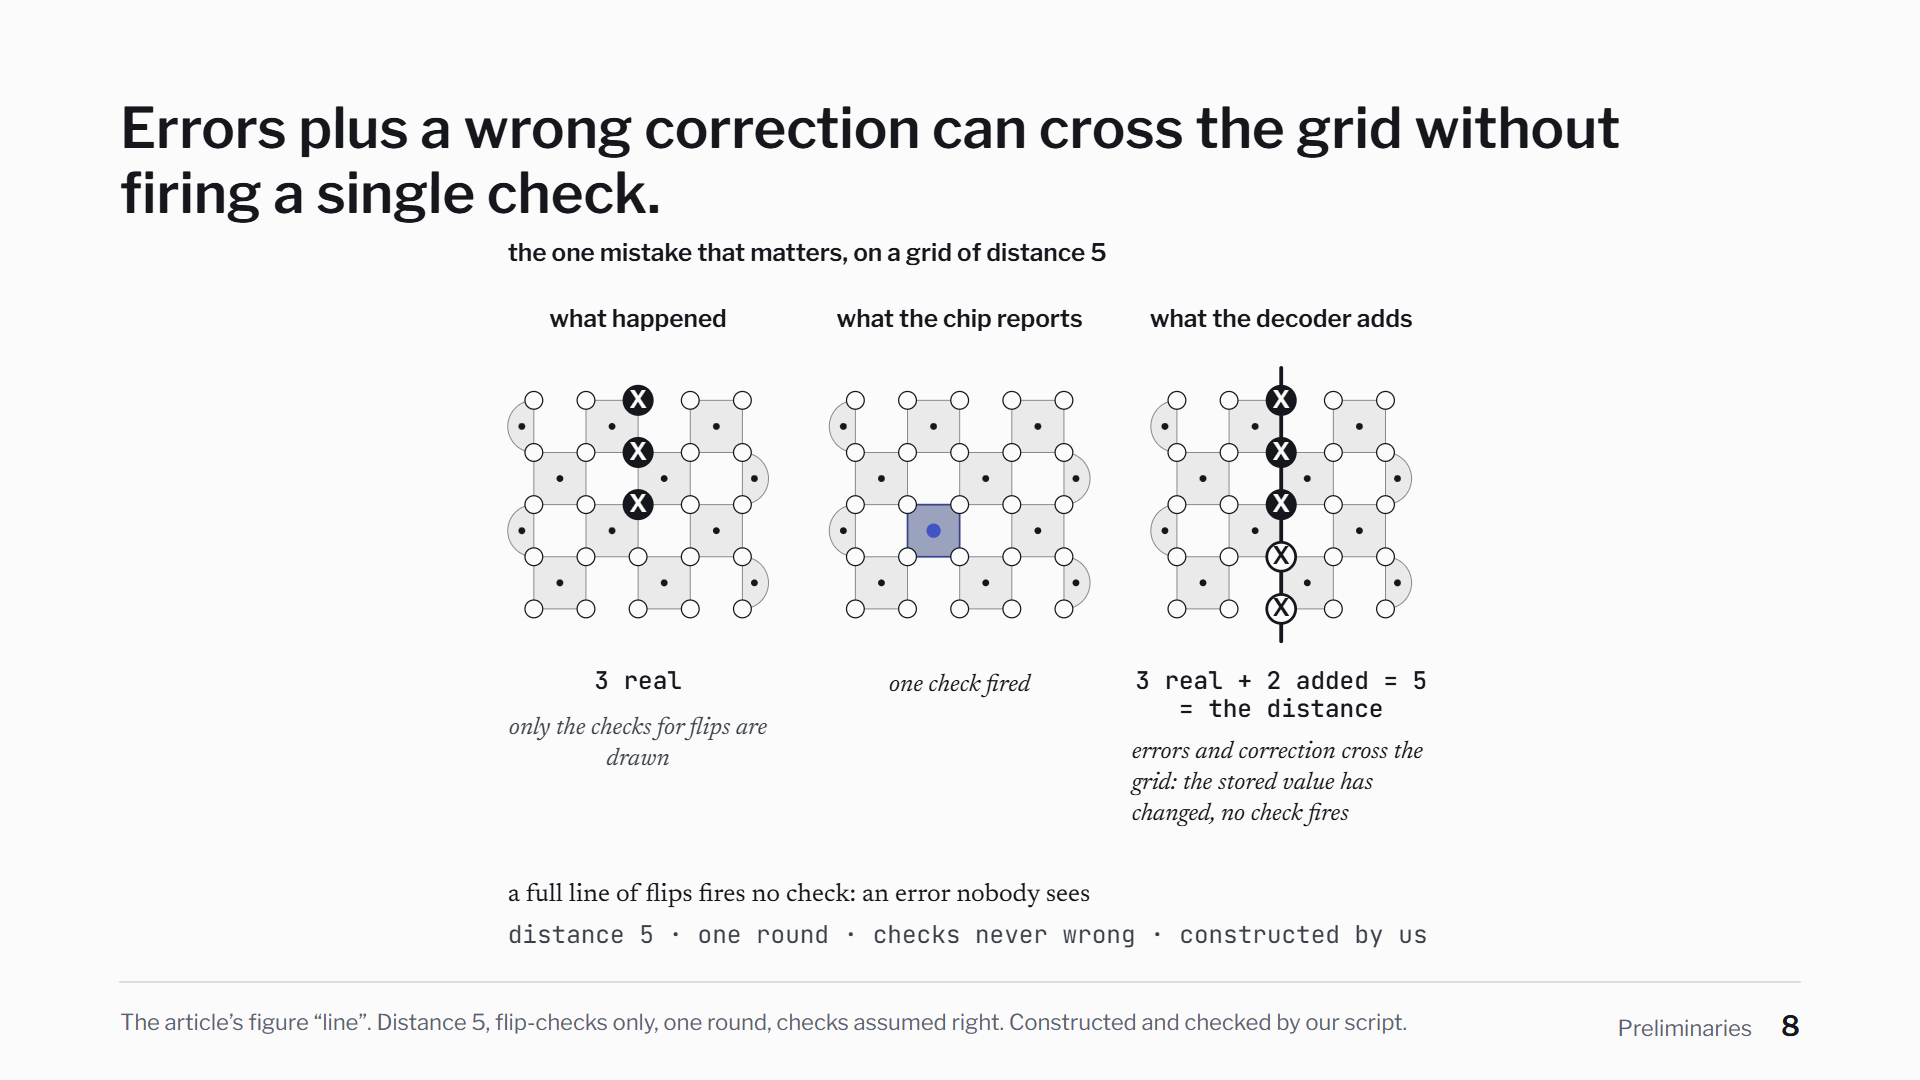
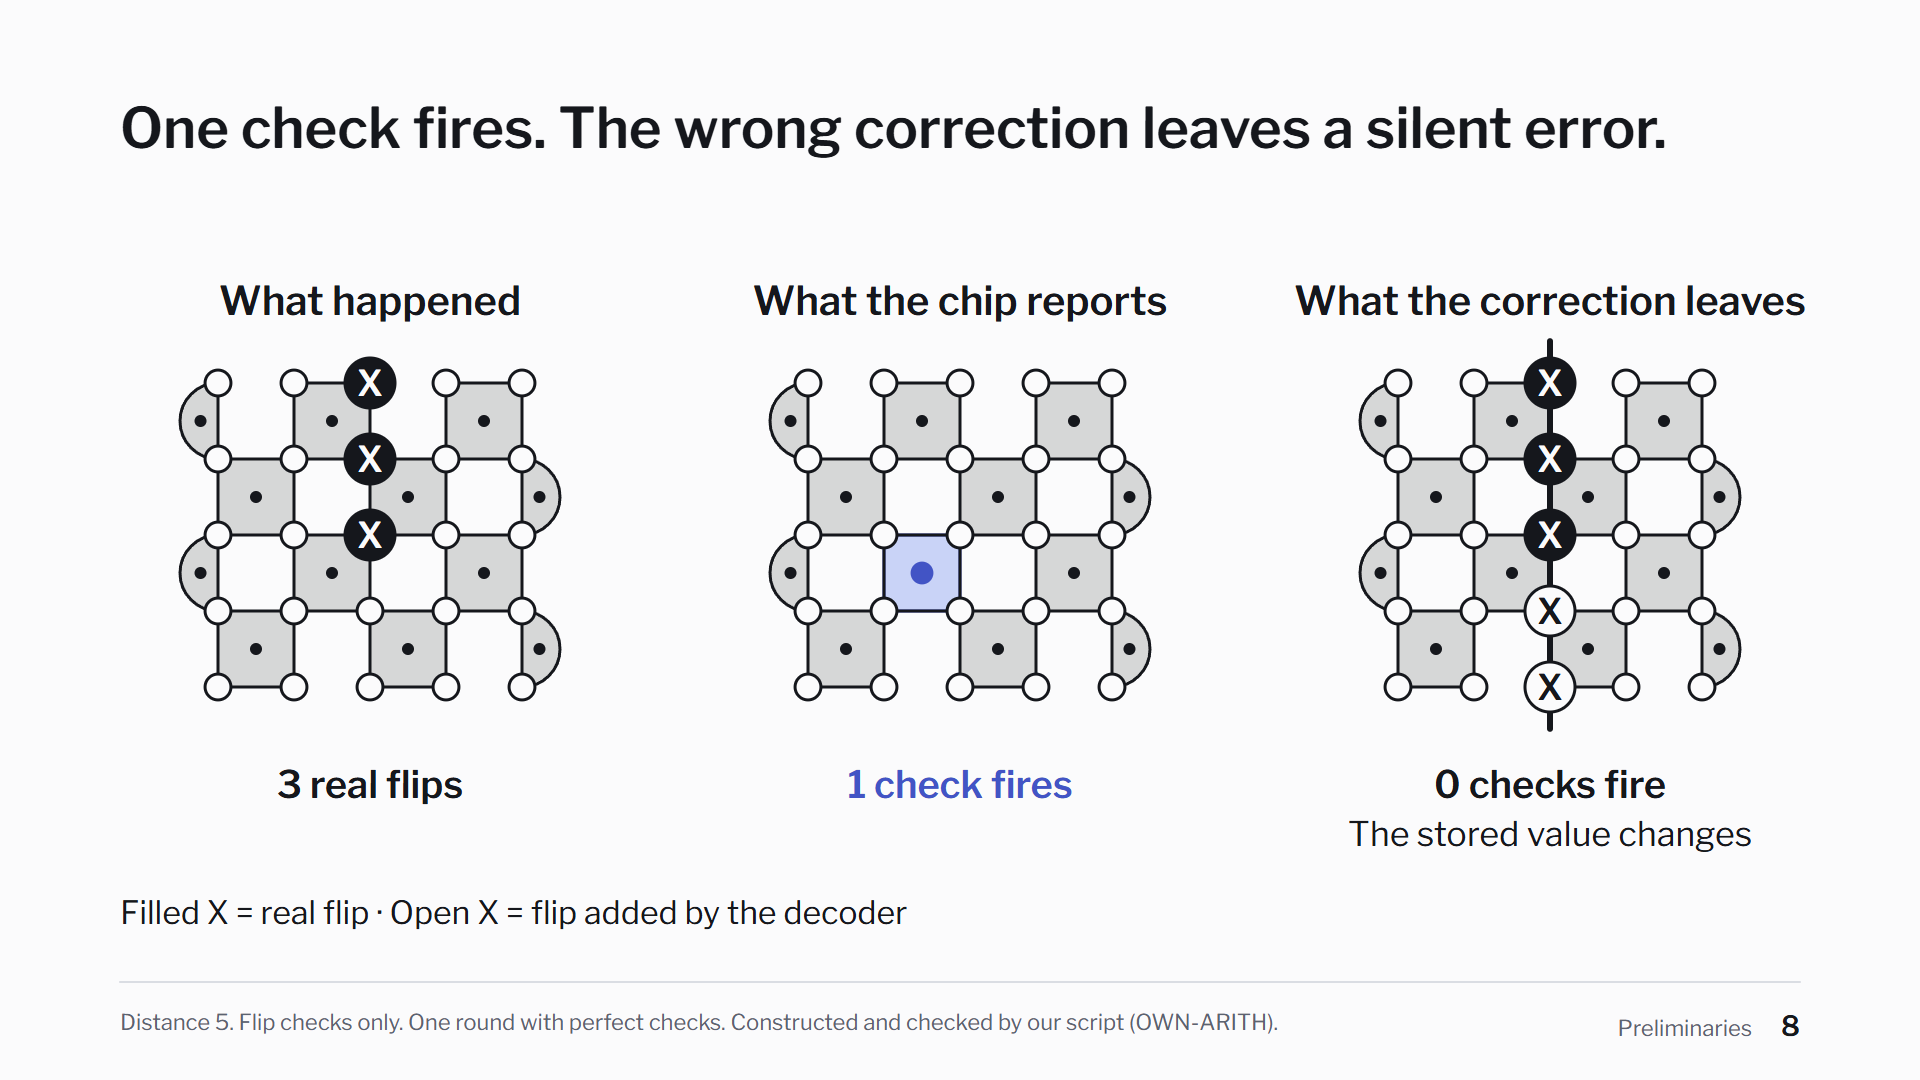
fix: draw the quantum correction examples for projection

diff --git a/talks/quantum/slides/10-two-ways/slide.js b/talks/quantum/slides/10-two-ways/slide.js
@@ -1,16 +1,54 @@
-// Slide 10: one of the 24, the article's lattice at steps 4 and 5.
-import { C, L, R, svgOf, T, frame, articleFigure, inkLayer, PEN } from '../../kit.js';
-import * as fig from '../../../../articles/other-half/figures/lattice.js';
+// Slide 10: one fired-check pattern, then the two lowest-weight ways to
+// reach the more likely logical outcome. The article supplies the examples.
+import { C, L, R, svgOf, T, frame, slideGrid, errMark, ln } from '../../kit.js';
 
-const STEPS = [4, 5];
+const pct = (chance) => `${(chance * 100).toFixed(1)}%`;
 export default {
-  id: 'two-ways', n: 10, part: 'Content', builds: STEPS.length, speaker: 'B',
-  title: 'The Y answer is right six times in ten because it can happen in two ways.',
-  clicks: ['plain matching’s answer', 'the Y answer, two ways'],
-  draw(page, b, data) {
+  id: 'two-ways', n: 10, part: 'Content', builds: 2, speaker: 'B',
+  title: 'Two likely error patterns point to the same logical outcome.',
+  clicks: ['the three fired checks and plain matching’s choice', 'the two leading cases and their total'],
+  draw(page, b, { lattice }) {
     const svg = svgOf(page);
-    frame(svg, { title: this.title, n: this.n, part: this.part, source: 'The article’s figure “lattice”, steps 5 and 6. Counted by us: distance 3, one round, 5% error per storing qubit, far above a real chip; checks never wrong.' });
-    const F = articleFigure(page, fig, STEPS[b], { x: 200, y: 250, w: 1520 }, data.lattice, { layout: 'wide', textPx: 30 });
-    const ink = inkLayer(page);
+    frame(svg, {
+      title: b === 0 ? 'Three checks fire. Plain matching picks one explanation.' : this.title,
+      n: this.n, part: this.part,
+      source: 'Our exact count (OWN-ENUM). All probabilities are conditional on the three fired checks. Distance 3, 5% error per storing qubit, one round, perfect checks.',
+    });
+    const { example, checks, distance } = lattice;
+    const { fired, plain_matching: plain, read_together: combined } = example;
+    const centerText = (x, y, text, options = {}) =>
+      T(svg, x, y, text, { size: 34, anchor: 'middle', ...options });
+    T(svg, L, 288, 'Chances given these three fired checks', { size: 34, fill: C.muted });
+    const pitch = 96;
+    const plate = (x, title, errors) => {
+      centerText(x, 376, title, { size: 36, weight: 600 });
+      const grid = slideGrid(svg, { checks, d: distance, cx: x, cy: 550, pitch });
+      for (const id of fired) grid.tiles[id].setFired(1);
+      for (const [qubit, letter] of Object.entries(errors)) {
+        errMark(grid.gE, ...grid.pos(Number(qubit)), 25, letter, 'added');
+      }
+    };
+    const observedX = 310, matchingX = 725;
+    plate(observedX, 'What the chip reports', {});
+    plate(matchingX, 'Plain matching', plain.errors);
+    centerText(observedX, 739, `${fired.length} checks fire`, { weight: 600, fill: C.accent });
+    centerText(matchingX, 739, `${pct(plain.chance_right)} chance of being right`, { size: 32, weight: 600 });
+    T(svg, L, 917, 'X = flip · Z = phase error · Y = both', { size: 32 });
+    if (b === 0) {
+      centerText(1370, 533, 'What else could fire', { size: 42, weight: 600 });
+      centerText(1370, 586, 'the same three checks?', { size: 42, weight: 600 });
+      return;
+    }
+
+    const xs = [1160, 1575];
+    ln(svg, 952, 337, 952, 868, { stroke: C.hair, 'stroke-width': 2 });
+    combined.minimum_weight_cases.forEach((errors, i) => {
+      plate(xs[i], i === 0 ? 'Z in the corner' : 'Z one place up', errors);
+      centerText(xs[i], 739, pct(combined.chance_per_minimum_weight_case), { weight: 600 });
+    });
+    ln(svg, 1010, 780, R, 780, { 'stroke-width': 3 });
+    const mid = (1010 + R) / 2;
+    centerText(mid, 834, `${pct(combined.chance_of_minimum_weight_cases)} for the two cases shown`, { size: 38, weight: 600 });
+    centerText(mid, 887, `${pct(combined.chance_right)} with rarer cases for the same outcome`, { size: 34 });
   },
 };

diff --git a/talks/quantum/slides/08-silent/slide.js b/talks/quantum/slides/08-silent/slide.js
@@ -1,16 +1,40 @@
-// Slide 8: the one mistake that matters, the article's line figure.
-import { C, L, R, svgOf, T, frame, articleFigure, inkLayer, PEN } from '../../kit.js';
-import * as fig from '../../../../articles/other-half/figures/line.js';
+// Slide 8: the article's flip-check grid drawn at projector scale.
+import { C, L, svgOf, T, frame, slideGrid, errMark, ln } from '../../kit.js';
 
-const STEPS = [0];
 export default {
-  id: 'silent', n: 8, part: 'Preliminaries', builds: STEPS.length, speaker: 'A',
-  title: 'Errors plus a wrong correction can cross the grid without firing a single check.',
-  clicks: ['what happened, what the chip reports, what the decoder adds'],
-  draw(page, b, data) {
+  id: 'silent', n: 8, part: 'Preliminaries', builds: 1, speaker: 'A',
+  title: 'One check fires. The wrong correction leaves a silent error.',
+  clicks: ['the flips, the fired check, the silent error'],
+  draw(page, _, { line }) {
     const svg = svgOf(page);
-    frame(svg, { title: this.title, n: this.n, part: this.part, source: 'The article’s figure “line”. Distance 5, flip-checks only, one round, checks assumed right. Constructed and checked by our script.' });
-    const F = articleFigure(page, fig, STEPS[b], { x: 360, y: 230, w: 1200 }, data.line, { layout: 'wide', textPx: 30 });
-    const ink = inkLayer(page);
+    frame(svg, {
+      title: this.title, n: this.n, part: this.part,
+      source: 'Distance 5. Flip checks only. One round with perfect checks. Constructed and checked by our script (OWN-ARITH).',
+    });
+    const pitch = 76;
+    const centers = [370, 960, 1550];
+    const titles = ['What happened', 'What the chip reports', 'What the correction leaves'];
+    const grids = centers.map((cx, i) => {
+      T(svg, cx, 315, titles[i], { size: 40, weight: 600, anchor: 'middle' });
+      return slideGrid(svg, { checks: line.flip_checks, d: line.distance, cx, cy: 535, pitch });
+    });
+    const [actual, observed, corrected] = grids;
+    const marks = (grid, qubits, kind) => {
+      for (const qubit of qubits) errMark(grid.gE, ...grid.pos(qubit), 25, 'X', kind);
+    };
+    marks(actual, line.real_errors, 'real');
+    for (const id of line.fired_by_real_errors) observed.tiles[id].setFired(1);
+    const [topX, topY] = corrected.pos(line.together[0]);
+    const [bottomX, bottomY] = corrected.pos(line.together.at(-1));
+    ln(corrected.gE, topX, topY - pitch * 0.55, bottomX, bottomY + pitch * 0.55, { 'stroke-width': 6 });
+    marks(corrected, line.real_errors, 'real');
+    marks(corrected, line.decoder_correction, 'added');
+    const under = (i, text, color = C.ink) =>
+      T(svg, centers[i], 798, text, { size: 38, weight: 600, anchor: 'middle', fill: color });
+    under(0, `${line.real_errors.length} real flips`);
+    under(1, `${line.fired_by_real_errors.length} check fires`, C.accent);
+    under(2, `${line.fired_together.length} checks fire`);
+    T(svg, centers[2], 846, 'The stored value changes', { size: 34, anchor: 'middle' });
+    T(svg, L, 924, 'Filled X = real flip · Open X = flip added by the decoder', { size: 32 });
   },
 };

diff --git a/talks/quantum/CUES.md b/talks/quantum/CUES.md
@@ -18,19 +18,19 @@ Generated by `node tools/qdeck.mjs` from each slide's `notes.md`. Times: the not
 | 12 | 6 film |  | 2 of 3 | what the film is |  |
 | 13 | 6 film |  | 3 of 3 | what a frame says | The chip puts out a film of fired checks, one frame per round. |
 | 14 | 7 matching | 5:14 | 1 of 1 | the pairing puzzle | The standard decoder, matching, pairs fired checks along the cheapest lines. |
-| 15 | 8 silent | 5:53 | 1 of 1 | what happened, what the chip reports, what the decoder adds | Errors plus a wrong correction can cross the grid without firing a single check. |
-| 16 | 9 patterns | 6:41 | 1 of 1 | 256 patterns, 24 filled | Matching gives the less likely answer on 24 of the 256 patterns we counted. |
-| 17 | 10 two-ways | 7:26 | 1 of 2 | plain matching’s answer |  |
-| 18 | 10 two-ways |  | 2 of 2 | the Y answer, two ways | The Y answer is right six times in ten because it can happen in two ways. |
-| 19 | 11 google | 8:41 | 1 of 2 | Google’s best matching decoder |  |
+| 15 | 8 silent | 5:53 | 1 of 1 | the flips, the fired check, the silent error | One check fires. The wrong correction leaves a silent error. |
+| 16 | 9 patterns | 6:34 | 1 of 1 | 256 patterns, 24 filled | Matching gives the less likely answer on 24 of the 256 patterns we counted. |
+| 17 | 10 two-ways | 7:19 | 1 of 2 | the three fired checks and plain matching’s choice |  |
+| 18 | 10 two-ways |  | 2 of 2 | the two leading cases and their total | Two likely error patterns point to the same logical outcome. |
+| 19 | 11 google | 8:22 | 1 of 2 | Google’s best matching decoder |  |
 | 20 | 11 google |  | 2 of 2 | the network | On Google’s recordings the network made about one error in six fewer. |
-| 21 | 12 clock | 9:35 | 1 of 2 | the chip’s rounds and the network’s answers |  |
+| 21 | 12 clock | 9:16 | 1 of 2 | the chip’s rounds and the network’s answers |  |
 | 22 | 12 clock |  | 2 of 2 | live matching, another setup | The network needed 24 millionths of a second for a round the chip finishes in 1.1. |
-| 23 | 13 method | 10:35 | 1 of 2 | the pipeline |  |
+| 23 | 13 method | 10:16 | 1 of 2 | the pipeline |  |
 | 24 | 13 method |  | 2 of 2 | what it is compared with; the stop rule | We trained a small network in simulation and wrote down our stop rule first. |
-| 25 | 14 ours | 11:16 | 1 of 2 | distance 3; distance 5 after 66 million |  |
+| 25 | 14 ours | 10:57 | 1 of 2 | distance 3; distance 5 after 66 million |  |
 | 26 | 14 ours |  | 2 of 2 | distance 5, about 250 million | Our distance-5 network finished between the two matchers. |
-| 27 | 15 properties | 12:05 | 1 of 2 | four properties |  |
+| 27 | 15 properties | 11:46 | 1 of 2 | four properties |  |
 | 28 | 15 properties |  | 2 of 2 | what the stop rule decided | A decoder gives no quantum speed-up, but its accuracy changes how big a useful machine must be. |
 | 29 | end questions |  | 1 of 1 | questions | Questions |
 | 30 | BB1 uncompute |  | 1 of 1 | backup | A helper learns only the parity, and is reset for the next round. |
@@ -42,7 +42,7 @@ Generated by `node tools/qdeck.mjs` from each slide's `notes.md`. Times: the not
 | 36 | BB7 preprint |  | 1 of 1 | backup | AlphaQubit 2 reports the throughput needed for a superconducting chip. |
 | 37 | BB8 recordings |  | 1 of 1 | backup | The test on Google’s public recordings is still open. |
 
-**Main talk:** 1512 words, 13:05 in all. Contrast sentences in the notes: 0.
+**Main talk:** 1471 words, 12:46 in all. Contrast sentences in the notes: 0.
 
 | Slide | Seconds | Words |
 | ---: | ---: | ---: |
@@ -53,9 +53,9 @@ Generated by `node tools/qdeck.mjs` from each slide's `notes.md`. Times: the not
 | 5 checks | 68 | 133 |
 | 6 film | 53 | 99 |
 | 7 matching | 40 | 77 |
-| 8 silent | 47 | 94 |
+| 8 silent | 41 | 80 |
 | 9 patterns | 45 | 72 |
-| 10 two-ways | 75 | 150 |
+| 10 two-ways | 62 | 123 |
 | 11 google | 54 | 106 |
 | 12 clock | 60 | 117 |
 | 13 method | 42 | 78 |

diff --git a/talks/quantum/slides/10-two-ways/notes.md b/talks/quantum/slides/10-two-ways/notes.md
@@ -1,7 +1,7 @@
-# 10 · The Y answer is right six times in ten because it can happen in two ways
+# 10 · Two likely error patterns point to the same logical outcome
 
-One of the most frequent of the 24. Three checks fire. Plain matching explains them with two errors: a flip in one corner and a phase error in the centre. It fits, and it is right one time in three.
+Three checks fire. Plain matching guesses a flip in one corner and a phase error in the centre. That's the right logical answer about one time in three.
 
-The same checks also fit a Y in that corner, a flip and a phase error at once, plus one phase error on the right. Plain matching counts a Y as two errors, because it solves flips and phase errors separately. And the phase error can sit in two places: the far corner, or one place above it. Together the two ways are right about six times in ten. Five percent error per storing qubit, with checks that never report wrongly, is far from a real chip; it makes the effect easy to count.
+Now look at the two grids on the right. Both have a Y in the top corner: a flip and a phase error at once. Plain matching solves flips and phase errors separately, so it counts the Y once in each problem. The other phase error can sit in the far corner or one place up. The checks look the same, and both cases call for the same logical correction. Add their chances and you get 61 percent. The rarer cases push that to 62.
 
-**The Y answer is right six times in ten because it can happen in two ways.**
+**Two likely error patterns point to the same logical outcome.**

diff --git a/talks/quantum/slides/08-silent/notes.md b/talks/quantum/slides/08-silent/notes.md
@@ -1,5 +1,5 @@
-# 8 · Errors plus a wrong correction can cross the grid without firing a single check
+# 8 · One check fires. The wrong correction leaves a silent error
 
-Most small mistakes in that guess are harmless, except one kind. Three real flips in one column fire a single check. Matching's cheapest explanation of that check is two flips below it. Corrected that way, errors and correction together make a line from edge to edge. Every check along it sees an even number, so nothing fires, and the stored value has changed. That silent failure is a logical error, and every decoder is measured by how often it happens.
+Start on the left. Three real flips in one column fire the blue check in the middle. The decoder sees that check and chooses the cheapest explanation: the two open flips below it. On the right, the real flips and the correction make a line across the grid. Every check along it now sees an even number. The stored value changes, and the checks go quiet. That's a logical error.
 
-**Errors plus a wrong correction can cross the grid without firing a single check.**
+**One check fires. The wrong correction leaves a silent error.**

diff --git a/talks/quantum/slides/10-two-ways/sources.md b/talks/quantum/slides/10-two-ways/sources.md
@@ -2,5 +2,5 @@
 
 | On the slide | Source |
 |---|---|
-| right 1 in 3; about 6 in 10 | `lattice.json` example: chance_right 0.333 and 0.622 (OWN-ENUM) |
-| 10 and 19 of 30 dots | rounded from those chances |
+| Plain matching 33.3%, leading outcome 62.2% | `lattice.json`, conditional chances for each logical outcome (OWN-ENUM) |
+| The two pictured cases, 30.5% each and 61.0% together | `lattice.json`, two minimum-weight error patterns in the leading logical class (OWN-ENUM) |
